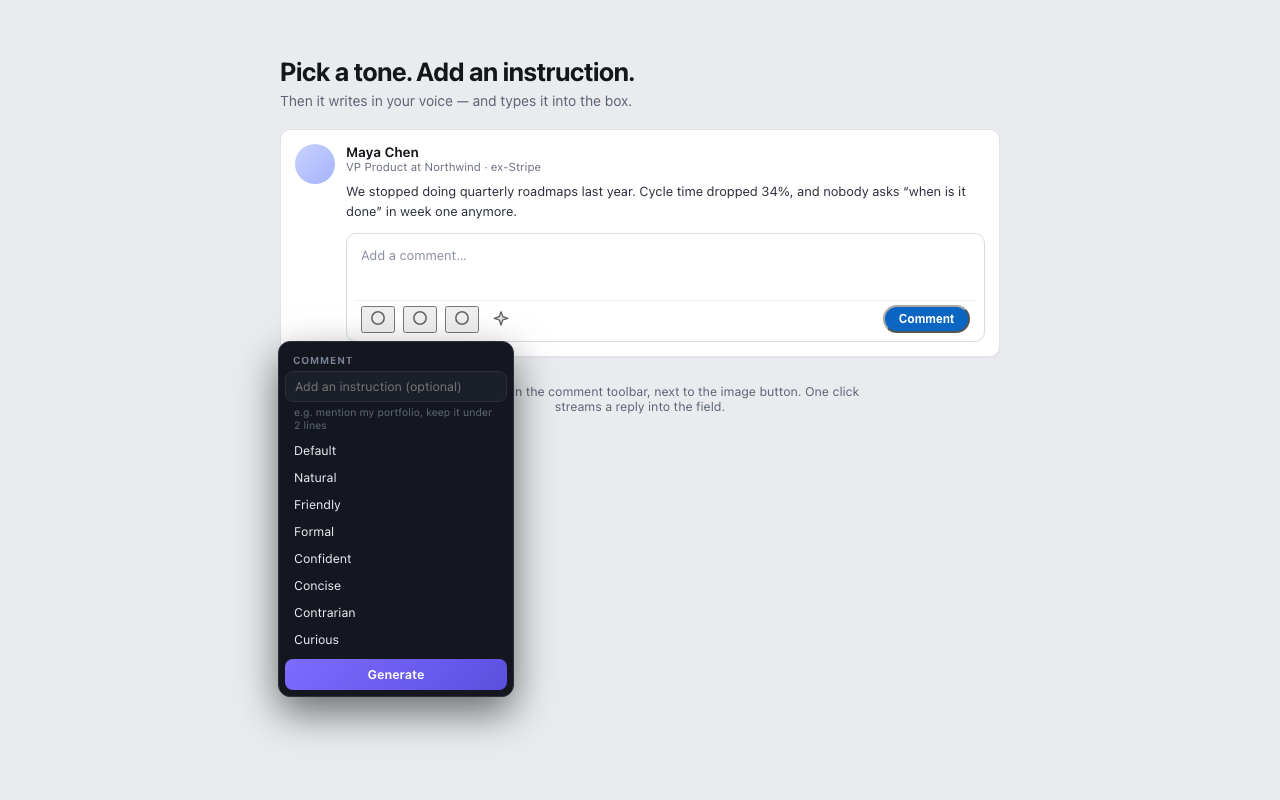
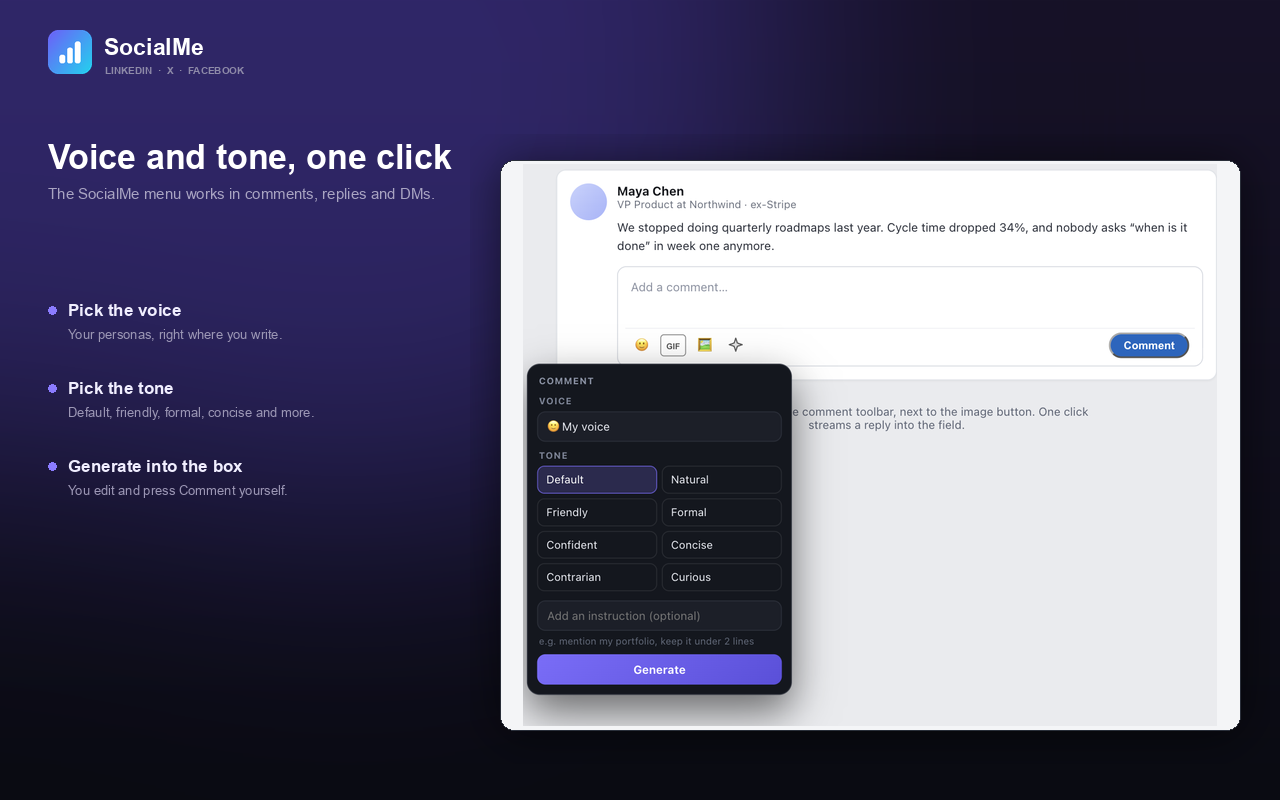
docs: refresh the store assets for the comment/reply scope
New 1280x800 screenshots for the panel, voice+tone menu, the eight voices and
a three-platform flow montage; a refreshed 440x280 promo tile; and a JPEG set
for the listings that reject the PNGs. The preview mock gains getManifest and
realistic toolbar glyphs so the assets can be regenerated.

diff --git a/preview/main.tsx b/preview/main.tsx
@@ -118,11 +118,31 @@ function ComposerDemo() {
               Add a comment…
             </div>
             <div className="demo-actions">
-              {['Emoji', 'GIF', 'Image'].map((label) => (
-                <button key={label} type="button" aria-label={label} className="demo-icon-btn">
-                  <svg width="18" height="18" viewBox="0 0 16 16" fill="none" stroke="#666" strokeWidth="1.4">
-                    <circle cx="8" cy="8" r="5.5" />
-                  </svg>
+              {[
+                { label: 'Emoji', glyph: '🙂' },
+                { label: 'GIF', glyph: 'GIF' },
+                { label: 'Image', glyph: '🖼' },
+              ].map(({ label, glyph }) => (
+                <button
+                  key={label}
+                  type="button"
+                  aria-label={label}
+                  className="demo-icon-btn"
+                  style={{
+                    border: label === 'GIF' ? '1px solid #8a8a8a' : 0,
+                    background: 'transparent',
+                    borderRadius: label === 'GIF' ? 4 : 0,
+                    width: label === 'GIF' ? 28 : 24,
+                    height: 24,
+                    padding: 0,
+                    fontSize: label === 'GIF' ? 9 : 15,
+                    fontWeight: label === 'GIF' ? 700 : 400,
+                    color: '#555',
+                    cursor: 'pointer',
+                    lineHeight: '24px',
+                  }}
+                >
+                  {glyph}
                 </button>
               ))}
               <button type="button" style={{ marginLeft: 'auto' }} className="demo-post-btn">

diff --git a/preview/browser-mock.ts b/preview/browser-mock.ts
@@ -72,6 +72,9 @@ export const browser = {
     },
   },
   runtime: {
+    getManifest() {
+      return { version: '0.7.0' };
+    },
     async sendMessage() {
       return { ok: true };
     },
